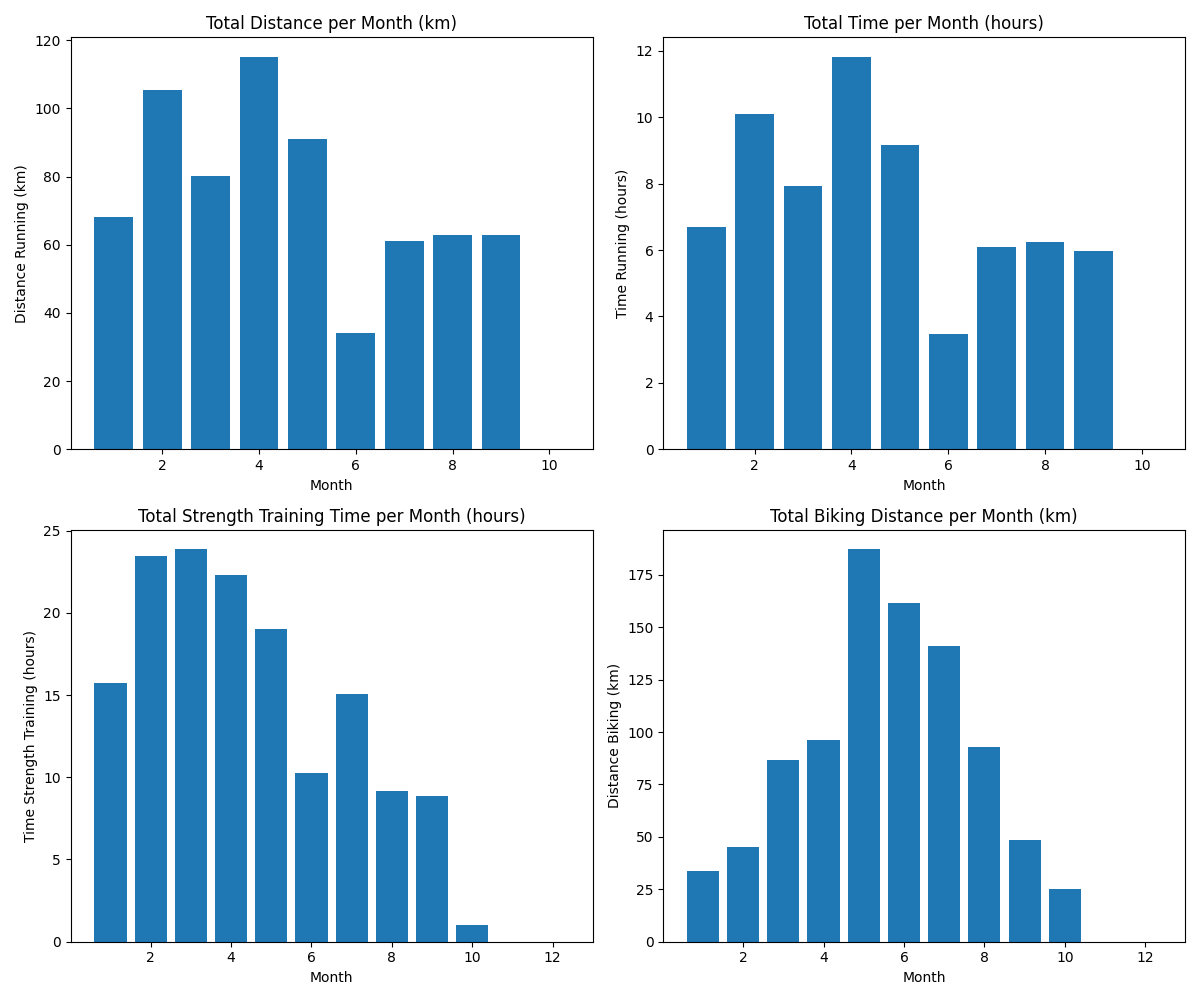
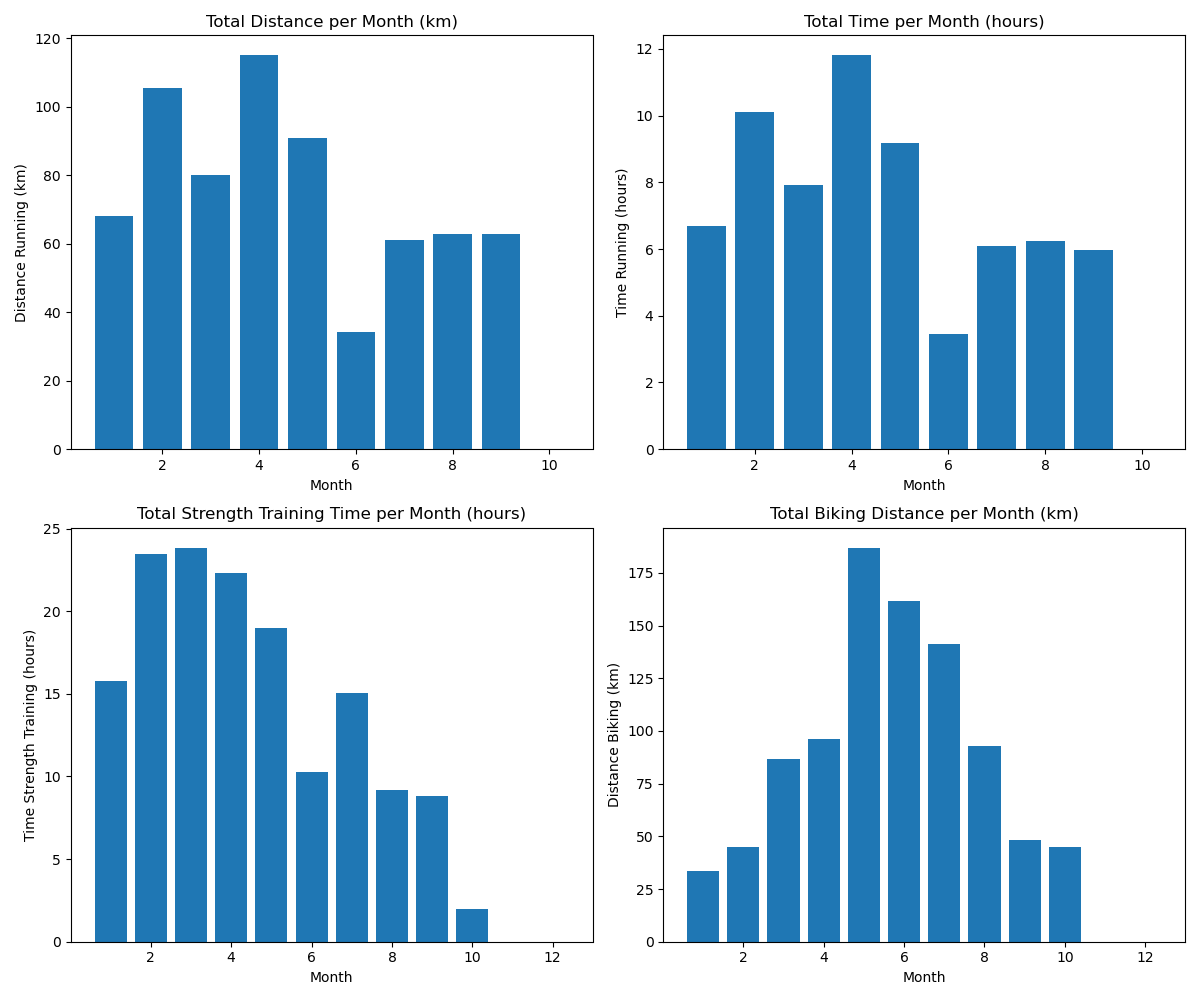
sport update 6.10

diff --git a/Sport/Sport_2026_report.md b/Sport/Sport_2026_report.md
@@ -3,25 +3,25 @@
 ## Sport Counts
 | type   |   count |
 |:-------|--------:|
-| F      |     174 |
+| F      |     176 |
 | S      |      18 |
 | L      |      13 |
 | K      |      10 |
 | B      |       7 |
-| Total  |     222 |
+| Total  |     224 |
 
 ## Summary
 - **Total distance run on treadmill:** 606.16 km
 - **Total distance run outside:** 74.41 km
-- **Total distance cycled:** 917.31 km
+- **Total distance cycled:** 937.31 km
 - **Total distance swimming:** 45.75 km
 - **Total distance skating:** 103.51 km
-- **Total number of sets (strength training):** 8,918
-- **Average number of sets (strength training):** 50.38
+- **Total number of sets (strength training):** 8,978
+- **Average number of sets (strength training):** 50.16
 
 ## Average Speeds
 - **Treadmill running:** 10.03 km/h
 - **Outside running:** 10.49 km/h
-- **Cycling:** 21.05 km/h
+- **Cycling:** 21.08 km/h
 - **Swimming:** 2.61 km/h
 - **Inline skating:** 8.94 km/h
